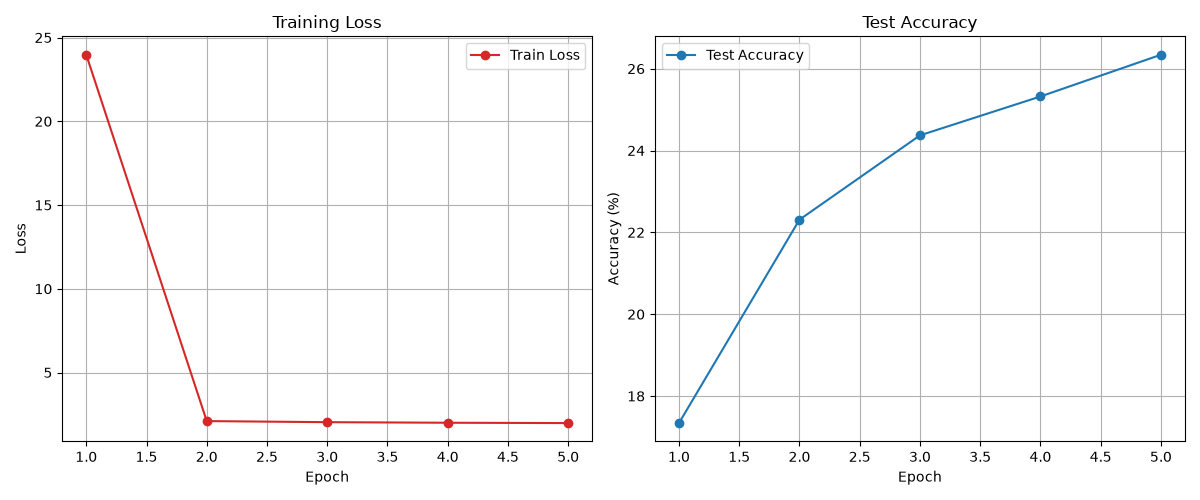
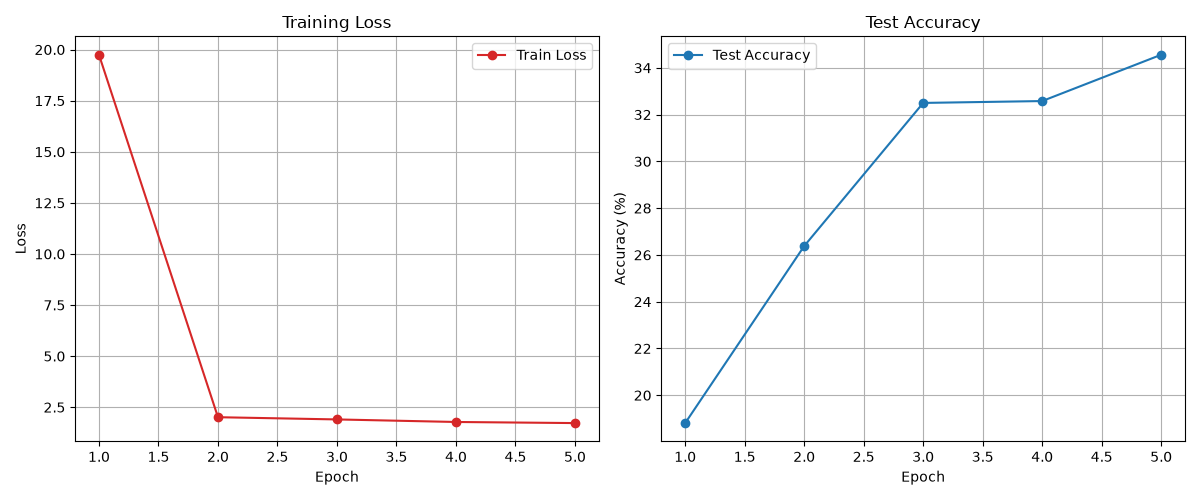
@@

diff --git a/script/bainarize_connect.py b/script/bainarize_connect.py
@@ -126,7 +126,7 @@ def plot(train_losses, test_accuracies):
     plt.legend()
 
     plt.tight_layout()
-    plt.savefig('script/output/binaryconnect_mnist_result.png')
+    plt.savefig('./output/binaryconnect_mnist_result.png')
     print("\nグラフを 'binaryconnect_mnist_result.png' として保存した．")
     plt.show()
 
@@ -143,10 +143,10 @@ def main():
         transforms.Normalize((0.1307,), (0.3081,))
     ])
     
-    train_dataset = datasets.MNIST(root='./script/data', train=True, download=True, transform=transform)
+    train_dataset = datasets.MNIST(root='./data', train=True, download=True, transform=transform)
     train_loader = DataLoader(train_dataset, batch_size=batch_size, shuffle=True)
 
-    test_dataset = datasets.MNIST(root='./script/data', train=False, download=True, transform=transform)
+    test_dataset = datasets.MNIST(root='./data', train=False, download=True, transform=transform)
     test_loader = DataLoader(test_dataset, batch_size=1000, shuffle=False)
 
     optimizer = optim.Adam(
